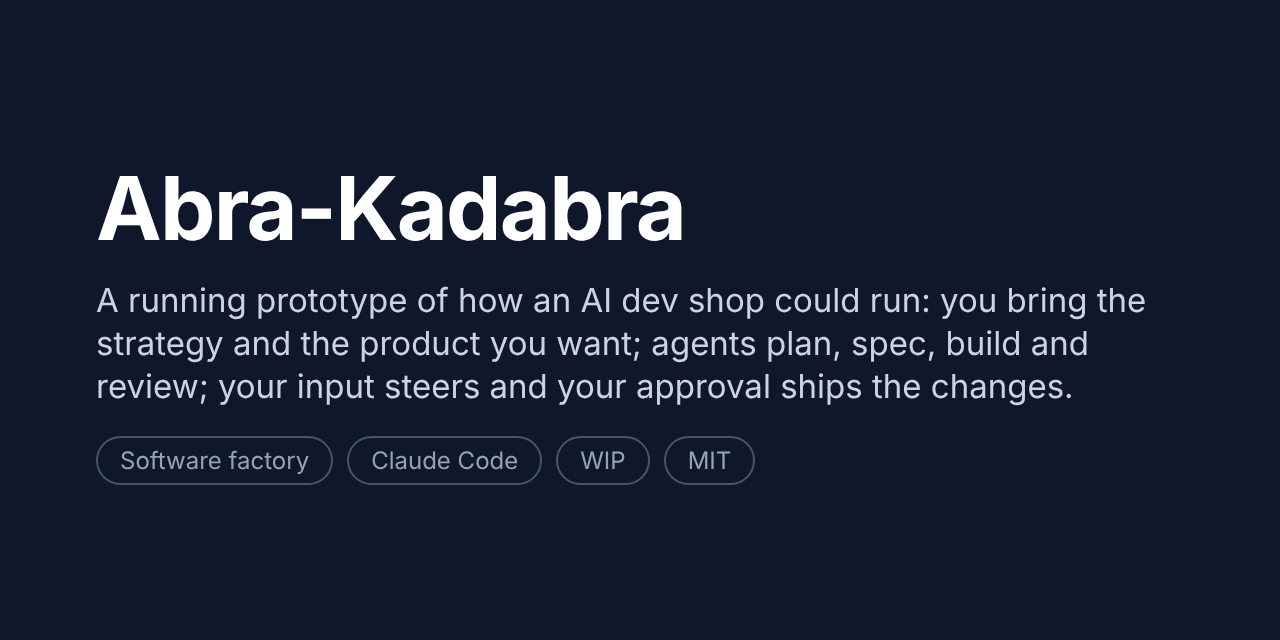
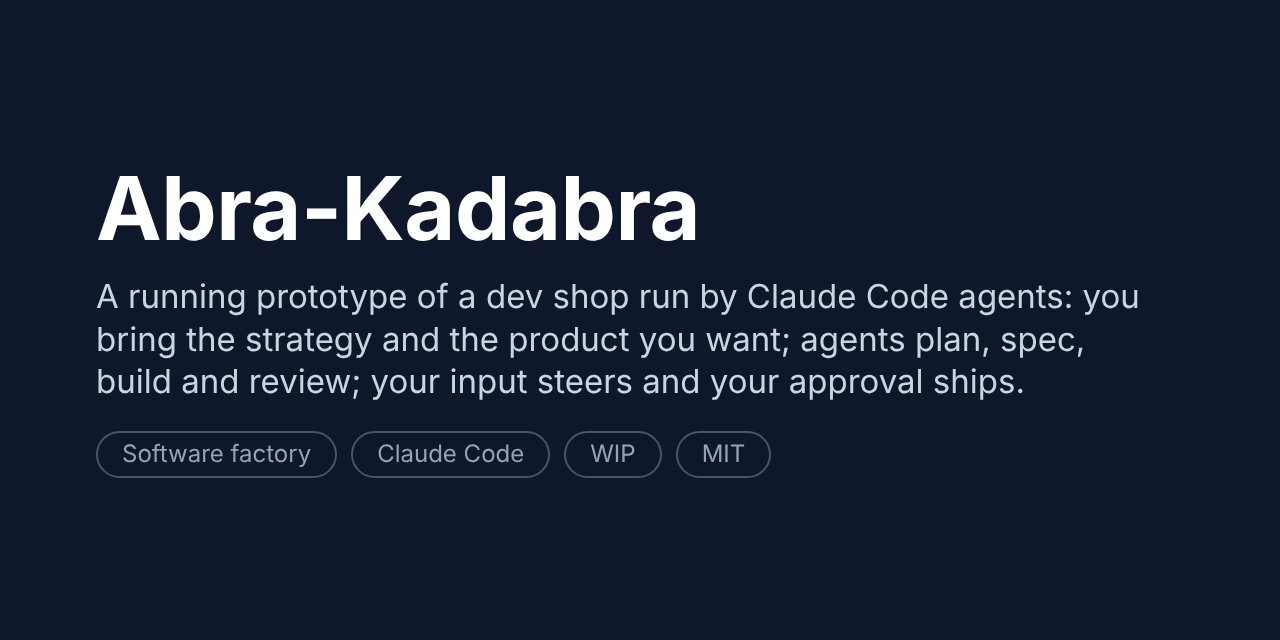
docs: the README and the social preview open with one condensed sentence (#167)
The README's opening sentence and the social preview image now say the
same condensed thing about the devshop.

The paragraph under the preview image used to open with a longer
sentence that ended "ships the changes"; the preview image carried an
older wording. Both now carry one sentence: "A running prototype of a
dev shop run by Claude Code agents: you bring the strategy and the
product you want; agents plan, spec, build and review; your input steers
and your approval ships." The README keeps "Made for one person running
their own products." as its second sentence, and the image is
re-rendered in the layout it already had.

**Preview:** none — a docs change; nothing deploys

## What you should know

- **Behaviour change:** none. One sentence in `README.md` and a
re-rendered `docs/images/social-preview.png` (1280 by 640, same layout:
dark background, the title, the sentence, the four tags).
- **Decisions:** the owner's, in chat (2026-10-30): "Let's condense the
about and the social preview. And I guess what is needed on the first
paragraph after the preview." The sentence is the owner's, with the
semicolons they accepted between its three clauses. The About
description is a repository setting this session cannot write (the
GitHub proxy refuses settings writes with HTTP 403), so it is a manual
step below.
- **Changed after the go:** nothing.
- **Tests deleted or loosened:** none.
- **Manual steps for you:**
[…]

Changed region(s): [[0.0625, 0.4375, 0.9062, 0.625], [0.0625, 0.6562, 0.5938, 0.7812], [0.125, 0.2812, 0.5625, 0.375]]

diff --git a/README.md b/README.md
@@ -7,9 +7,9 @@
 **Describe the app you want. Get one built to be slick, reliable and secure, with you in control at
 every step.**
 
-This is a running prototype of a dev shop run by Claude Code agents: you bring the strategy and
-the product you want; agents plan, spec, build and review; your input steers and your approval ships
-the changes. Made for one person running their own products.
+A running prototype of a dev shop run by Claude Code agents: you bring the strategy and the
+product you want; agents plan, spec, build and review; your input steers and your approval ships.
+Made for one person running their own products.
 
 Used to build [lalista](https://lalista.store) ([repo](https://github.com/meirmsn/lalista)),
 [home-os](https://github.com/meirmsn/home-os) and
